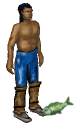
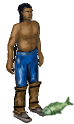
Fix native convert and fisherman sprites that showed the wrong art or lost their blacks.
Mounted converts use native scout/dragoon images, and the fisherman PNGs keep opaque black shading after background removal.

diff --git a/CHANGELOG.md b/CHANGELOG.md
@@ -38,6 +38,8 @@
 * Bugfix: the Royal Expeditionary Force no longer stays in Europe for ever when every rebel colony is surrounded by units. It lands and attacks the units guarding a colony. Its land units left in Europe after a failed launch are put back aboard the navy. Games already waiting for it are fixed on the next turn.
 
 ### User Interface ###
+* Bugfix: a mounted Indian convert is drawn as a native rider, and a mounted armed one as a native dragoon. They were using the European scout and dragoon sprites.
+* Bugfix: the native expert fisherman sprite keeps its black shading. Background removal had keyed those blacks transparent.
 * Bugfix: the autosave at the start of a turn is written with that turn's date. It was saved a moment earlier, so loading it put units where they had finished the previous turn, with moves renewed, while the date had not changed. Accepting a tax rise and then loading that file went back to before the turn.
 * Trade route editor: clarifies that listed goods are loaded at a stop, that other goods on the carrier are unloaded, and that a stop with no goods unloads everything ("Unload all" on empty stops).
 * The colony warehouse goods bar always follows the client option "Hide goods in warehouse when fewer than", including in debug mode (debug no longer forces hiding empty goods).
